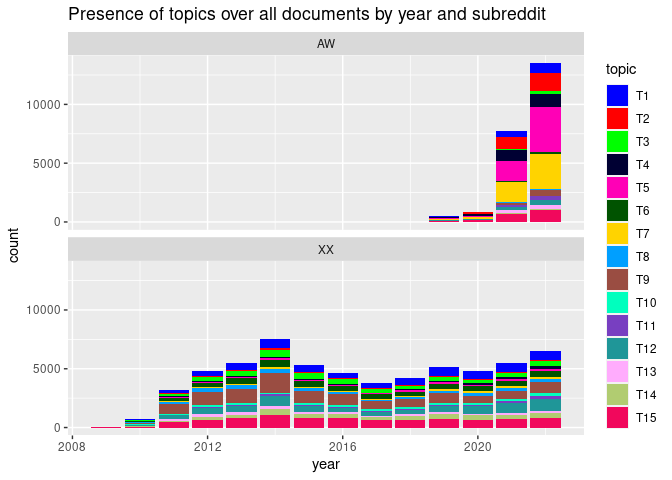
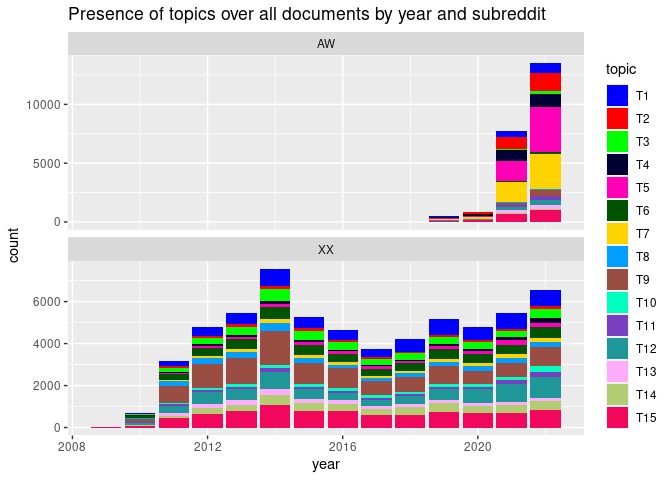
Update links

Changed region(s): [[0.1875, 0.5625, 0.8438, 0.9062], [0.0312, 0.6875, 0.0938, 0.8125], [0.0312, 0.5938, 0.0938, 0.6562]]

diff --git a/README.md b/README.md
@@ -26,16 +26,16 @@ We have created 10 topic models using the LDA model estimated with
 The models are stored in the `data` folder. The models are named
 `XXAW151`, `XXAW152`, …, `XXAW1510`. The LDAVis can be accessed
 
-[XXAW151](data/XXAW151.html)  
-[XXAW152](data/XXAW152.html)  
-[XXAW153](data/XXAW153.html)  
-[XXAW154](data/XXAW154.html)  
-[XXAW155](data/XXAW155.html)  
-[XXAW156](data/XXAW156.html)  
-[XXAW157](data/XXAW157.html)  
-[XXAW158](data/XXAW158.html)  
-[XXAW159](data/XXAW159.html)  
-[XXAW1510](data/XXAW1510.html)
+[XXAW151](docs/XXAW151.html)  
+[XXAW152](docs/XXAW152.html)  
+[XXAW153](docs/XXAW153.html)  
+[XXAW154](docs/XXAW154.html)  
+[XXAW155](docs/XXAW155.html)  
+[XXAW156](docs/XXAW156.html)  
+[XXAW157](docs/XXAW157.html)  
+[XXAW158](docs/XXAW158.html)  
+[XXAW159](docs/XXAW159.html)  
+[XXAW1510](docs/XXAW1510.html)
 
 ## Model assessment
 
@@ -124,7 +124,7 @@ XXAW_top |> mutate(year = year(created_time)) |>
  mutate(topic = factor(topic, levels = paste0("T", 1:15))) |> 
  ggplot(aes(x = year, y = count, fill=topic)) + 
  geom_col(position = "stack") +
- facet_wrap(~subreddit, ncol = 1) +
+ facet_wrap(~subreddit, ncol = 1, scales = "free_y") +
  scale_fill_manual(values = pals::glasbey(15)) +
  labs(title = "Presence of topics over all documents by year and subreddit")
 ```
@@ -141,7 +141,7 @@ XXAW_top |> mutate(year = year(created_time)) |>
  mutate(topic = factor(topic, levels = paste0("T", 1:15))) |> 
  ggplot(aes(x = year, y = count, fill=topic)) + 
  geom_col(position = "stack") +
- facet_wrap(~subreddit, ncol = 1) +
+ facet_wrap(~subreddit, ncol = 1, scales = "free_y") +
  scale_fill_manual(values = pals::glasbey(15)) +
  labs(title = "Relative frequency of topics over all documents by year and subreddit")
 ```
@@ -238,3 +238,10 @@ XXusers |> inner_join(AWusers, by = "author") |> arrange(desc(XX_n + AW_n)) |> h
 | super_soprano13      |     6 |    1 |
 | EQOA_Fanatic         |     1 |    5 |
 | MandrakeThePancake   |     5 |    1 |
+
+``` r
+AceZeroXYZ <- XXAW_top |> filter(author == "AceZeroXYZ") |> 
+ select(subreddit, created_time, created_day, url, title, url, num_comments, score, 
+        T1, T2, T3, T4, T5, T6, T7, T8, T9, T10, T11, T12, T13, T14, T15, selftext) 
+write_csv(AceZeroXYZ, "data/AceZeroXYZ.csv")
+```
